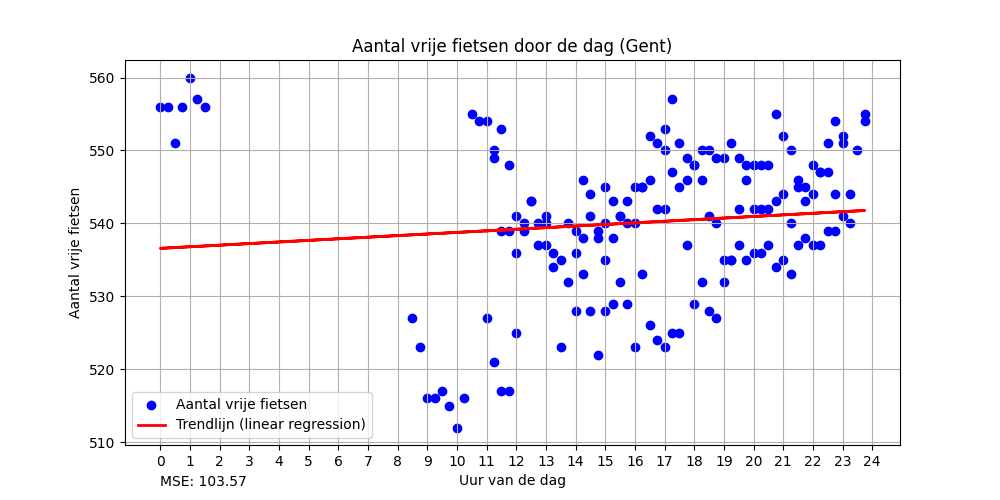
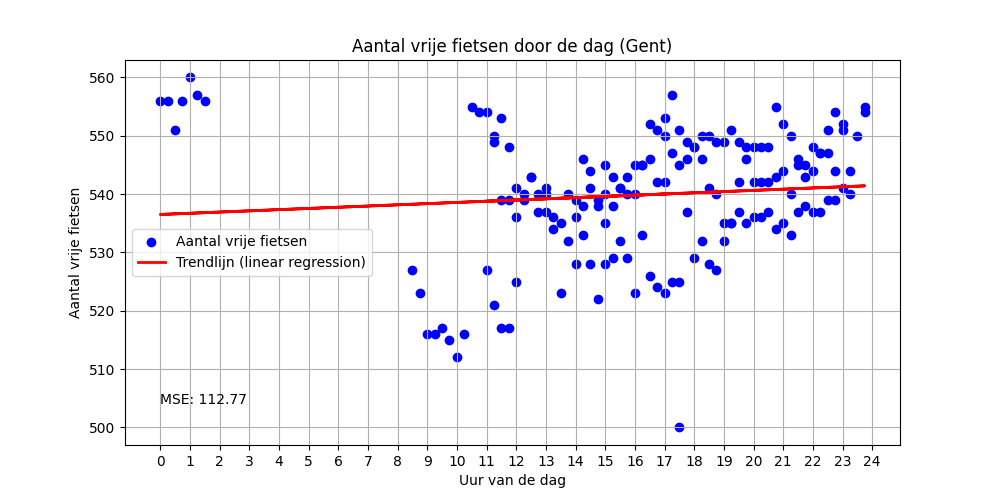
Automatische update 2025-11-17 17:30:12

diff --git a/reports/report.md b/reports/report.md
@@ -1,22 +1,22 @@
 # Data Workflow Rapport
 
-**Gegenereerd op:** 2025-11-17 11:45:07.191499
+**Gegenereerd op:** 2025-11-17 17:30:11.319006
 
 ## Grafiek: Vrije fietsen vs Temperatuur
 ![Fietsen vs Temp](fiets_vs_temp.png)
 
 ## Basisstatistieken
-- Gemiddelde temperatuur: 11.95 °C
+- Gemiddelde temperatuur: 11.92 °C
 - Gemiddeld aantal vrije fietsen: 540
 - Gemiddeld aantal fietsen overdag (07-19u): 537
 - Gemiddeld aantal fietsen ’s nachts (19-07u): 545
-- Correlatie: -0.03
+- Correlatie: 0.01
 
 ## Vrije fietsen per weekdag
 
 | Weekdag | Min | Max | Gemiddelde |
 |---------|-----|-----|------------|
-| Maandag | 512 | 556 | 524 |
+| Maandag | 500 | 556 | 522 |
 | Dinsdag | 0 | 0 | 0 |
 | Woensdag | 0 | 0 | 0 |
 | Donderdag | 525 | 550 | 535 |
